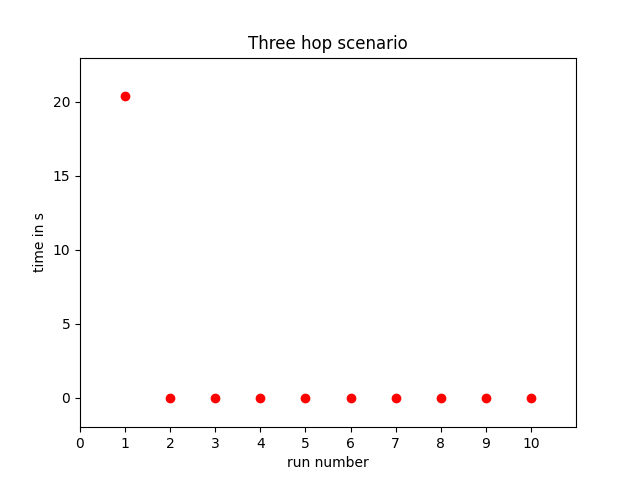
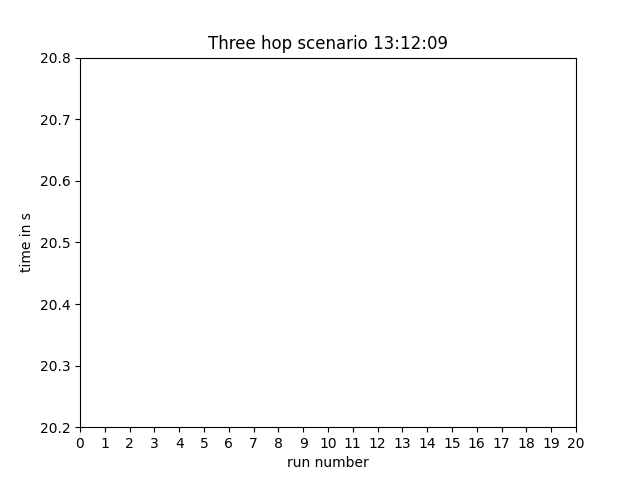
Modify test simulation

diff --git a/PiCN/Simulations/Streaming/ThreeLayerStreamingScenario.py b/PiCN/Simulations/Streaming/ThreeLayerStreamingScenario.py
@@ -1,9 +1,12 @@
+import sys
+
 import matplotlib.pyplot as plt
 import numpy as np
 
 from datetime import datetime
 
 import time
+
 from PiCN.Layers.NFNLayer.NFNExecutor.NFNPythonExecutorStreaming import NFNPythonExecutorStreaming
 from PiCN.ProgramLibs.Fetch import Fetch
 from PiCN.ProgramLibs.ICNDataRepository import ICNDataRepository
@@ -13,7 +16,7 @@ from PiCN.Layers.PacketEncodingLayer.Encoder import NdnTlvEncoder
 from PiCN.Mgmt import MgmtClient
 from PiCN.Packets import Name
 
-def pathDetection(fileName:str):
+def pathDetection(fileName: str):
     pathList = fileName.split("/")
     path = ""
     for j in range(0, len(pathList) - 1):
@@ -23,9 +26,9 @@ def pathDetection(fileName:str):
             path = path + "/" + pathList[j]
     return path + "/"
 
-def generateNameFiles(path: str, number:int):
+def generateNameFiles(path: str, number: int):
     with open(path + "name" + str(number), "w") as f:
-        f.write("Inhalt von name" + str(number) + ". ")
+        f.write("Content of name" + str(number) + ". ")
     f.close()
 
 def generateExampleFiles(fileName: str, numberOfLines: int):
@@ -38,103 +41,81 @@ def generateExampleFiles(fileName: str, numberOfLines: int):
         f.write("sdo:endstreaming\n")
     f.close()
 
-generateExampleFiles("InputFiles/exampleInputFile", 10)
 
-classic = False
-plot = True
+def simulation(classic):
+    generateExampleFiles("InputFiles/exampleInputFile", 20)
 
-simulation_bus = SimulationBus(packetencoder=NdnTlvEncoder())
+    simulation_bus = SimulationBus(packetencoder=NdnTlvEncoder())
 
-nfn_fwd0 = NFNForwarder(port=0, encoder=NdnTlvEncoder(),
-                        interfaces=[simulation_bus.add_interface("nfn0")], log_level=255, executors={"PYTHONSTREAM": NFNPythonExecutorStreaming()},
-                        ageing_interval=1)
-nfn_fwd0.executors["PYTHONSTREAM"].initialize_executor(nfn_fwd0.nfnlayer.queue_to_lower, nfn_fwd0.nfnlayer.queue_from_lower, nfn_fwd0.nfnlayer.computation_table, nfn_fwd0.nfnlayer.cs, nfn_fwd0.icnlayer.pit, classic)
-
+    nfn_fwd0 = NFNForwarder(port=0, encoder=NdnTlvEncoder(),
+                            interfaces=[simulation_bus.add_interface("nfn0")], log_level=255, executors={"PYTHONSTREAM": NFNPythonExecutorStreaming()},
+                            ageing_interval=1)
+    nfn_fwd0.executors["PYTHONSTREAM"].initialize_executor(nfn_fwd0.nfnlayer.queue_to_lower, nfn_fwd0.nfnlayer.queue_from_lower, nfn_fwd0.nfnlayer.computation_table, nfn_fwd0.nfnlayer.cs, nfn_fwd0.icnlayer.pit, classic)
 
 
-nfn_fwd1 = NFNForwarder(port=0, encoder=NdnTlvEncoder(),
-                        interfaces=[simulation_bus.add_interface("nfn1")], log_level=255, executors={"PYTHONSTREAM": NFNPythonExecutorStreaming()},
-                        ageing_interval=1)
-nfn_fwd1.executors["PYTHONSTREAM"].initialize_executor(nfn_fwd1.nfnlayer.queue_to_lower, nfn_fwd1.nfnlayer.queue_from_lower, nfn_fwd1.nfnlayer.computation_table, nfn_fwd1.nfnlayer.cs, nfn_fwd1.icnlayer.pit, classic)
 
-nfn_fwd2 = NFNForwarder(port=0, encoder=NdnTlvEncoder(),
-                        interfaces=[simulation_bus.add_interface("nfn2")], log_level=255, executors={"PYTHONSTREAM": NFNPythonExecutorStreaming()},
-                        ageing_interval=1)
-nfn_fwd2.executors["PYTHONSTREAM"].initialize_executor(nfn_fwd2.nfnlayer.queue_to_lower, nfn_fwd2.nfnlayer.queue_from_lower, nfn_fwd2.nfnlayer.computation_table, nfn_fwd2.nfnlayer.cs, nfn_fwd2.icnlayer.pit, classic)
+    nfn_fwd1 = NFNForwarder(port=0, encoder=NdnTlvEncoder(),
+                            interfaces=[simulation_bus.add_interface("nfn1")], log_level=255, executors={"PYTHONSTREAM": NFNPythonExecutorStreaming()},
+                            ageing_interval=1)
+    nfn_fwd1.executors["PYTHONSTREAM"].initialize_executor(nfn_fwd1.nfnlayer.queue_to_lower, nfn_fwd1.nfnlayer.queue_from_lower, nfn_fwd1.nfnlayer.computation_table, nfn_fwd1.nfnlayer.cs, nfn_fwd1.icnlayer.pit, classic)
 
-
-repo = ICNDataRepository("./InputFiles", Name("/repo/r1"), 0, 255, NdnTlvEncoder(), False, False, interfaces=[simulation_bus.add_interface("repo")])
-repo.start_repo()
-
-mgmt_client0 = MgmtClient(nfn_fwd0.mgmt.mgmt_sock.getsockname()[1])
-mgmt_client1 = MgmtClient(nfn_fwd1.mgmt.mgmt_sock.getsockname()[1])
-mgmt_client2 = MgmtClient(nfn_fwd2.mgmt.mgmt_sock.getsockname()[1])
-
-fetch_tool = Fetch("nfn0", None, 255, NdnTlvEncoder(), interfaces=[simulation_bus.add_interface("fetchtoo1")])
-
-nfn_fwd0.start_forwarder()
-nfn_fwd1.start_forwarder()
-nfn_fwd2.start_forwarder()
-
-simulation_bus.start_process()
-
-mgmt_client0.add_face("nfn1", None, 0)
-mgmt_client0.add_forwarding_rule(Name("/lib"), [0])
-mgmt_client1.add_face("nfn2", None, 0)
-mgmt_client1.add_forwarding_rule(Name("/lib"), [0])
-mgmt_client2.add_face("repo", None, 0)
-mgmt_client2.add_forwarding_rule(Name("/repo/r1"), [0])
+    nfn_fwd2 = NFNForwarder(port=0, encoder=NdnTlvEncoder(),
+                            interfaces=[simulation_bus.add_interface("nfn2")], log_level=255, executors={"PYTHONSTREAM": NFNPythonExecutorStreaming()},
+                            ageing_interval=1)
+    nfn_fwd2.executors["PYTHONSTREAM"].initialize_executor(nfn_fwd2.nfnlayer.queue_to_lower, nfn_fwd2.nfnlayer.queue_from_lower, nfn_fwd2.nfnlayer.computation_table, nfn_fwd2.nfnlayer.cs, nfn_fwd2.icnlayer.pit, classic)
 
 
-mgmt_client0.add_new_content(Name("/lib/node0"),"PYTHONSTREAM\ngetnext_on_writeout\ndef getnext_on_writeout(arg):\n    print('Start dritte')\n    a = get_next(arg)\n    sleep(2)\n    b = get_next(arg)\n    sleep(2)\n    c = get_next(arg)\n    sleep(2)\n    d = get_next(arg)\n    sleep(2)\n    e = get_next(arg)\n    sleep(2)\n    f = get_next(arg)\n    sleep(2)\n    g = get_next(arg)\n    sleep(2)\n    h = get_next(arg)\n    sleep(2)\n    i = get_next(arg)\n    sleep(2)\n    j = get_next(arg)\n    sleep(2)\n    print('Ende dritte')\n    return a + b + c + d + e + f + g + h + i + j")
+    repo = ICNDataRepository("./InputFiles", Name("/repo/r1"), 0, 255, NdnTlvEncoder(), False, False, interfaces=[simulation_bus.add_interface("repo")])
+    repo.start_repo()
 
-mgmt_client1.add_new_content(Name("/lib/node1"),"PYTHONSTREAM\nwriteout_on_getnext\ndef writeout_on_getnext(arg):\n    print('Start zweite')\n    write_out_on_get_next(arg)\n    return print('Ende zweite')\n")
+    mgmt_client0 = MgmtClient(nfn_fwd0.mgmt.mgmt_sock.getsockname()[1])
+    mgmt_client1 = MgmtClient(nfn_fwd1.mgmt.mgmt_sock.getsockname()[1])
+    mgmt_client2 = MgmtClient(nfn_fwd2.mgmt.mgmt_sock.getsockname()[1])
 
-mgmt_client2.add_new_content(Name("/lib/node2"),"PYTHONSTREAM\nwriteout_on_getnext\ndef writeout_on_getnext(arg):\n    print('Start erste')\n    write_out_on_get_next(arg)\n    return print('Ende erste')\n")
+    fetch_tool = Fetch("nfn0", None, 255, NdnTlvEncoder(), interfaces=[simulation_bus.add_interface("fetchtoo1")])
 
-scenario_node_2 = Name("/lib/node2")
-scenario_node_2 += "#(=/repo/r1/exampleInputFile=)"
-scenario_node_2 += "NFN"
+    nfn_fwd0.start_forwarder()
+    nfn_fwd1.start_forwarder()
+    nfn_fwd2.start_forwarder()
 
-scenario_node_1 = Name("/lib/node1")
-scenario_node_1 += "#(=" + str(scenario_node_2) + "=)"
-scenario_node_1 += "NFN"
+    simulation_bus.start_process()
 
-scenario_node_0 = Name("/lib/node0")
-scenario_node_0 += '_("' + str(scenario_node_1) + '")'
-scenario_node_0 += "NFN"
+    mgmt_client0.add_face("nfn1", None, 0)
+    mgmt_client0.add_forwarding_rule(Name("/lib"), [0])
+    mgmt_client1.add_face("nfn2", None, 0)
+    mgmt_client1.add_forwarding_rule(Name("/lib"), [0])
+    mgmt_client2.add_face("repo", None, 0)
+    mgmt_client2.add_forwarding_rule(Name("/repo/r1"), [0])
 
-time_list = []
-for i in range (0, 10):
+
+    mgmt_client0.add_new_content(Name("/lib/node0"),"PYTHONSTREAM\ngetnext_on_writeout\ndef getnext_on_writeout(arg):\n    print('Start dritte')\n    res = ''\n    a = get_next(arg)\n    while a != None:\n        a = a.upper()\n        res = res + a\n        a = get_next(arg)\n        sleep(0)\n    print('Ende dritte')\n    return res")
+
+    mgmt_client1.add_new_content(Name("/lib/node1"),"PYTHONSTREAM\nwriteout_on_getnext\ndef writeout_on_getnext(arg):\n    print('Start zweite')\n    write_out_on_get_next(arg)\n    return print('Ende zweite')\n")
+
+    mgmt_client2.add_new_content(Name("/lib/node2"),"PYTHONSTREAM\nwriteout_on_getnext\ndef writeout_on_getnext(arg):\n    print('Start erste')\n    write_out_on_get_next(arg)\n    return print('Ende erste')\n")
+
+    scenario_node_2 = Name("/lib/node2")
+    scenario_node_2 += "#(=/repo/r1/exampleInputFile=)"
+    scenario_node_2 += "NFN"
+
+    scenario_node_1 = Name("/lib/node1")
+    scenario_node_1 += "#(=" + str(scenario_node_2) + "=)"
+    scenario_node_1 += "NFN"
+
+    scenario_node_0 = Name("/lib/node0")
+    scenario_node_0 += '_("' + str(scenario_node_1) + '")'
+    scenario_node_0 += "NFN"
+
+
     start_time = time.perf_counter()
     res = fetch_tool.fetch_data(scenario_node_0, timeout=60)
     end_time = time.perf_counter()
     time_needed = end_time - start_time
-    if res.startswith("Inhalt von name1. Inhalt von name2. Inhalt von name3. "):
-        time_list.append(time_needed)
+
+
+    if res.startswith("CONTENT OF NAME"):
+        print("Time:", time_needed, res)
+        return time_needed
     else:
         print("Something went wrong")
-
-if plot:
-    plt.plot([1, 2, 3, 4, 5, 6, 7, 8, 9 , 10], time_list, 'ro')
-    plt.axis([0, 11, -2, 23])
-    plt.xticks(np.arange(0, 11, 1))
-    plt.xlabel("run number")
-    plt.ylabel("time in s")
-    plt.title("Three hop scenario " + datetime.now().strftime("%H:%M:%S"))
-    plt.savefig('three_hop_scenario.png')
-    plt.show()
-
-print("Time needed in seconds:", time_list)
-
-
-
-nfn_fwd0.stop_forwarder()
-nfn_fwd1.stop_forwarder()
-nfn_fwd2.stop_forwarder()
-repo.stop_repo()
-fetch_tool.stop_fetch()
-simulation_bus.stop_process()
-mgmt_client0.shutdown()
-mgmt_client1.shutdown()
-mgmt_client2.shutdown()
+        None

diff --git a/PiCN/Simulations/Streaming/RunSimulations.py b/PiCN/Simulations/Streaming/RunSimulations.py
@@ -1,0 +1,37 @@
+import gc
+from datetime import datetime
+
+import matplotlib.pyplot as plt
+import numpy as np
+from ThreeLayerStreamingScenario import simulation
+
+time_list = []
+time_list_classic = []
+plot = True
+
+for i in range (0,20):
+    time = simulation(False)
+    if time:
+        time_list.append(time)
+    gc.collect()
+
+# for i in range (0,10):
+#     time = simulation(True)
+#     if time:
+#         time_list_classic.append(time)
+#     gc.collect()
+
+
+print(time_list)
+#print(time_list_classic)
+
+if plot:
+    plt.plot(list(range(1,21)), time_list, 'ro')
+    #plt.plot([1, 2, 3, 4, 5, 6, 7, 8, 9, 10], time_list_classic, 'bo')
+    plt.axis([0, 11, 20.2, 20.8])
+    plt.xticks(np.arange(0, 21, 1))
+    plt.xlabel("run number")
+    plt.ylabel("time in s")
+    plt.title("Three hop scenario " + datetime.now().strftime("%H:%M:%S"))
+    plt.savefig('three_hop_scenario.png')
+    plt.show()

diff --git a/PiCN/Layers/NFNLayer/NFNExecutor/NFNPythonExecutorStreaming.py b/PiCN/Layers/NFNLayer/NFNExecutor/NFNPythonExecutorStreaming.py
@@ -244,6 +244,8 @@ class NFNPythonExecutorStreaming(NFNPythonExecutor):
                 result = self.get_next_single_name_classic(next_name)
             print("[Streaming] Part", self.get_next_part_counter, "ends here with result:", result)
             self.get_next_part_counter += 1
+            if self.check_end_streaming(result):
+                return None
         return result
 
 
